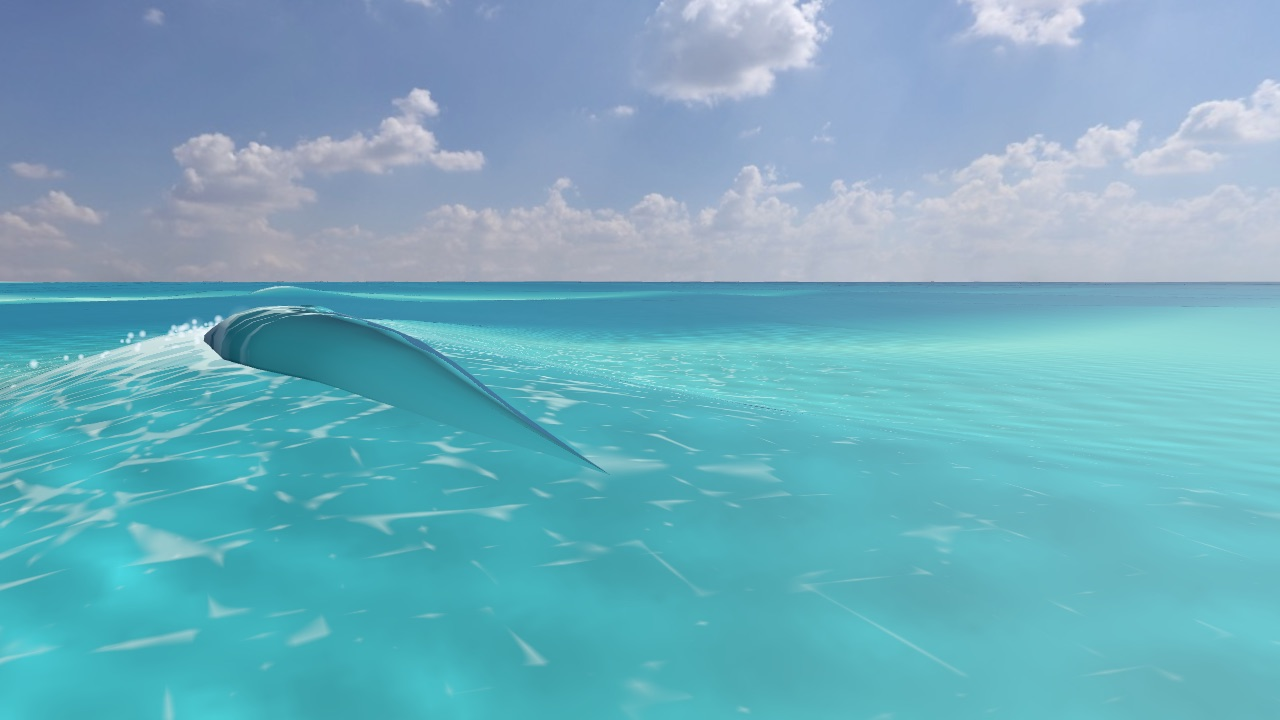
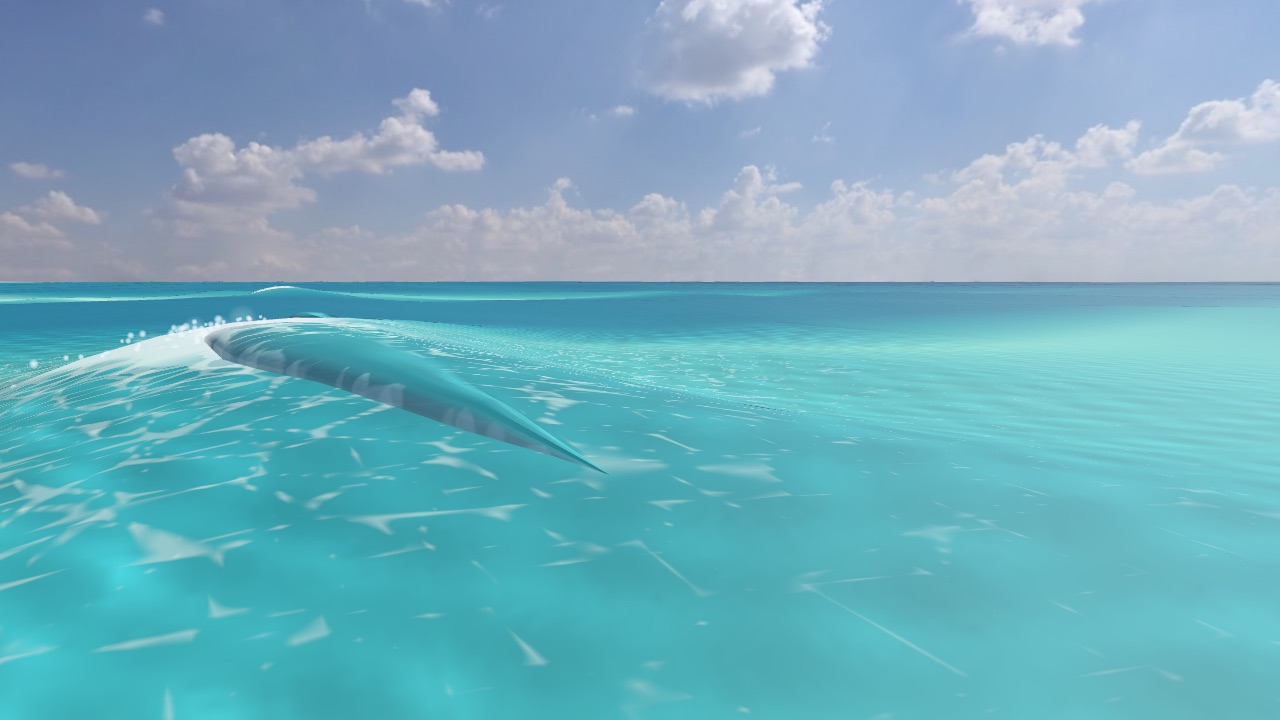
docs: the spilling lip's stills after the look pass, and one at Big
Replaces the after stills (same wave, moment and cameras as the befores) and
adds Big beside the curl; the README's read of them, the look's game values
and the open checks (the lip still reads a little glassy from beside; the
residual lace from earlier bores covers the shoulder at Big).

Changed region(s): [[0.0312, 0.3972, 0.4688, 0.6417]]

diff --git a/docs/research/canyon-lip-2026-10-11/README.md b/docs/research/canyon-lip-2026-10-11/README.md
@@ -12,7 +12,7 @@ It is **look only**. The water, the solver's breaking strength, the S2 whitewate
 
 ## The stills
 
-Canyon, Medium swell (Hs 1.4 m, Tp 11 s, 0°, s = 150), seed 1, in the page, at sea time 133.47 s: a set wave about 2 m high peeling toward +x at the take-off. They were shot from the dev water sheet (`?inpage&waterSheet&spot=canyon&swell=medium&direction=0&spreading=150`, with `&spillingCurl=0` for the before), midday, in the Rich look unless noted. The before and after show the same wave at the same moment: the switch changes nothing felt.
+Canyon, Medium swell (Hs 1.4 m, Tp 11 s, 0°, s = 150), seed 1, in the page, at sea time 133.47 s: a set wave about 2 m high peeling toward +x at the take-off. They were shot from the dev water sheet (`?inpage&waterSheet&spot=canyon&swell=medium&direction=0&spreading=150`, with `&spillingCurl=0` for the before), midday, in the Rich look unless noted. The before and after show the same wave at the same moment, from the same cameras: the switch changes nothing felt. The after stills are from the look pass after the coordinator's review (see below).
 
 | | Before (`spillingCurl` off) | After |
 | --- | --- | --- |
@@ -21,15 +21,22 @@ Canyon, Medium swell (Hs 1.4 m, Tp 11 s, 0°, s = 150), seed 1, in the page, at 
 
 - **From the beach** (after): ![](after-beach.jpg)
 - **Beside the curl, Classic look** (after): ![](after-beside-classic.jpg)
+- **Big, beside the curl** (after; `&swell=big`, sea time 201.8 s, a 1.5 m wave): ![](after-big-beside.jpg)
 
 **My read of the stills.**
 
 - **Before:** the face is white (S2's lace) right up to the front. There is no curl.
-- **After:**
-  - **The ordering reads.** Along the crest there is a clean green shoulder, then a small curl that grows from nothing at the front, then white behind it. The white starts where the curl has landed and spreads down the face.
-  - **The curl looks glassy.** It is smooth and translucent turquoise in Rich and matte teal in Classic, and reads more like a glass roll lying on the crest than a pouring lip.
-  - **From the beach it is small.** It sits on top of a gentle, solver-smooth face.
-  - **Old lace remains everywhere.** The residual lace from earlier waves' bores (the Canyon's lace lasts 15 s) still covers the water around the break. That lace predates this work and is not touched.
+- **After, Medium:**
+  - **The ordering reads.** From the lineup and beside the curl you see, along the crest: a clean green shoulder, then a small water-coloured lip growing from nothing at the front, then a bright white patch at the crest behind it where it has landed. The white spreads down the face from there.
+  - **The lip.** It now takes the face's turquoise and is translucent where it falls thin. Its tip carries a little froth and the bright edge. It fades into the crest, and into the white as it collapses. There is no dark rim and no glass end cap.
+  - **What is still off:**
+    - The lip is smooth and clean-edged: from beside it still reads as a glassy tongue lying on the crest more than as water pouring off it.
+    - In Classic it is a darker teal, with its inner side showing through the thin part.
+    - From the beach it is subtle: a thin translucent lip on the crest beside the white patch.
+- **After, Big:**
+  - The curl is barely visible beside the white patch.
+  - The leftover lace from earlier waves' bores covers the water ahead, so the shoulder is not clean there. That lace predates this work and is not touched: the Canyon's residual foam lasts 15 s, and Big breaks over a wide area.
+  - The dark dashes in the Big still are in the water without the curl too, so they are not the curl's.
 
 ## The numbers and their sources
 
@@ -49,31 +56,42 @@ Canyon, Medium swell (Hs 1.4 m, Tp 11 s, 0°, s = 150), seed 1, in the page, at 
   - A ribbon is lofted along each wave's crest from the snapshot's slices: up to 56 slices of 13 floats, 2.9 KB, carried through the snapshot so solo, worker and online clients all draw it.
   - Each slice is the curl at its column's age. It grows from nothing at the front to touchdown, then fills and whitens.
   - The lip's outer surface rises from the back of the crest, carries forward over the void, and falls onto the drawn face where Pick & Feddersen's lip lands. The face stands in for the void's lower branch.
-  - It is shaded as the swept barrel's thin backlit sheet, in both looks. It stays clear until it lands, then turns white from its tip as it fills.
+  - It stands no more than 0.1 H over the drawn crest. The solver's crest is rounder and its face gentler than a breaking crest's, so a higher lip read as a pod sitting on the crest.
+  - It is shaded on the water's own uniforms, with the column of water under it as its body, so it takes the face's colour.
+  - Its falling outer half is shaded as the swept barrel's thin backlit sheet: translucent, letting 30 % of the water behind show through, brightest toward its tip.
+  - It carries a little froth on its very tip.
+  - Its view cosine is held off grazing, which removes the dark rim.
+  - Its Rich roughness is 0.25 rather than the water's 0.08, which removes the plastic sheen.
+  - It is blended (alpha). It fades into the crest where it attaches (from 0.4 L behind the crest to 0.1 L ahead of it). Over its 0.5 s collapse (about 3 m of crest) it thins, whitens and fades out into its landing patch, so no end cap shows.
 - **The drawn white:**
   - S2 now writes a drawn whitewater beside the felt one. It is zero before touchdown, then runs from the landing line (the void filling up to the crest) down to a toe that reaches the foot 2 s later. The foam field takes its foam and source from this drawn whitewater; its bore measurement for the air is unchanged.
-  - The roller band's drawn copy (`writeRoller`) waits and grows the same way.
-  - The drawn air (Rich's churn and plume) shows only under drawn foam.
+  - The roller band's drawn copy (`writeRoller`) waits and grows the same way. Once its curl has landed it is drawn at full scale within 0.15 s: a bright white patch where the lip lands (fresh foam averages about 41 % reflectance over its first second; the advisor), brightest at the crest and fading toward the toe. The felt lens's scale grows with its travel over about 2.5 s, which drew the landing faint.
+  - The drawn air (Rich's churn and plume) shows only under drawn foam, and only in columns whose curl is still young. A developed bore draws its air as before.
   - S2's drawn whitewater also holds back the next crest's weak breaking before its onset joins it, which an older wave's band holds meanwhile. Before this change that breaking was drawn white ahead of the front.
 
 **Cost:**
 
 - The look's step: 0.015 ms per step.
 - The snapshot's slices: 0.026 ms (worker).
-- Building the ribbon on the page: 0.08 ms for 20 slices, 0.22 ms at the 56-slice maximum. These are node timings on this M1 Air. The ribbon is rebuilt once per snapshot, not per frame.
+- Building the ribbon on the page: 0.082 ms for 20 slices, 0.225 ms at the 56-slice maximum, the same as before the look pass (0.084 and 0.224 ms). These are node timings on this M1 Air. The ribbon is rebuilt once per snapshot, not per frame.
 - The GPU draws one mesh of at most 1,400 vertices with the water's sheet shading. GPU cost was not measured; I estimate it as negligible.
 
 ## What is provisional
 
 - **The shape.** Pick & Feddersen's potential-flow fits stand in for the Canyon's own break until the high-resolution Basilisk level-15 run.
-- **How the curl sits on the solver's face.** The solver's crest is rounder and its face gentler than a breaking crest's. A void W high over that face would stand the lip a third of the wave above the crest. So the lip rises at most 0.2 H over the drawn crest (`RISE`), and its void is as high as the face's drop allows: about 0.2 H on the stills' wave rather than Pick & Feddersen's 0.33 H.
-- **The light behind the lip.** It is shaded mostly against the wave's own water (`SKY_BEHIND` 0.1).
+- **How the curl sits on the solver's face.** The solver's crest is rounder and its face gentler than a breaking crest's. A void W high over that face would stand the lip a third of the wave above the crest, which read as a pod. So the lip rises at most 0.1 H over the drawn crest (`RISE`), and its void is as high as the face's drop allows: about 0.1 H rather than Pick & Feddersen's 0.23–0.33 H. The 0.2–0.35 H test holds for the overturn's size W, not for the drawn void.
+- **The look's game values.** These are all provisional, set by eye on these stills:
+  - the light behind the lip (`SKY_BEHIND` 0.1, plus up to 0.5 more toward the tip);
+  - its translucency (`THIN_SHOWS` 0.3) and its fades (`ROOT_FADE`, `COLLAPSE_FADE`);
+  - its tip froth (0.3) and its Rich roughness (0.25);
+  - the landing flash (0.15 s).
 - **The curl's direction.** It is held within 30° of the shore's normal.
 - **The air rule.** The drawn air reaches full strength under foam 0.5 thick.
 
 ## Open feel checks for the owner (no rider tests were run)
 
-- **Does the curl read as a separator?** It should be a small lip, clearly smaller than a tube, running just behind the front, with a clean shoulder ahead. Or does it look like glass sitting on the crest? The knobs are `RISE`, `SKY_BEHIND`, `BACK` and `OVER` in `SpillingCurlMesh.ts`.
+- **Does the curl read as a separator?** It should be a small lip, clearly smaller than a tube, running just behind the front, with a clean shoulder ahead. Or does it still look like a glassy tongue on the crest? The knobs are in `SpillingCurlMesh.ts`: `RISE`, `SKY_BEHIND`/`SKY_AT_TIP`, `THIN_SHOWS`, `TIP_FROTH`, `BACK` and `OVER`. Streaks or a broken-up surface on the falling sheet are the next step if it still reads too clean.
+- **The residual lace** from earlier bores covers the shoulder at Big. Shortening the Canyon's residual (15 s) is look only, but it changes the whole spot's foam, so it needs the owner's call.
 - **The white's pace.** Is 2 s from touchdown to the face's foot right, and is the white bright enough where the curl lands?
 - **Sizes and light.** Small and Big swells (the ψ0 hold keeps the curl at 0.23–0.33 H of each wave), dawn and sunset light, and the GPU tier.
 - **Nothing felt changed**, so the ride itself should feel exactly as before. Worth confirming on the board, since the white now arrives later than the push.
